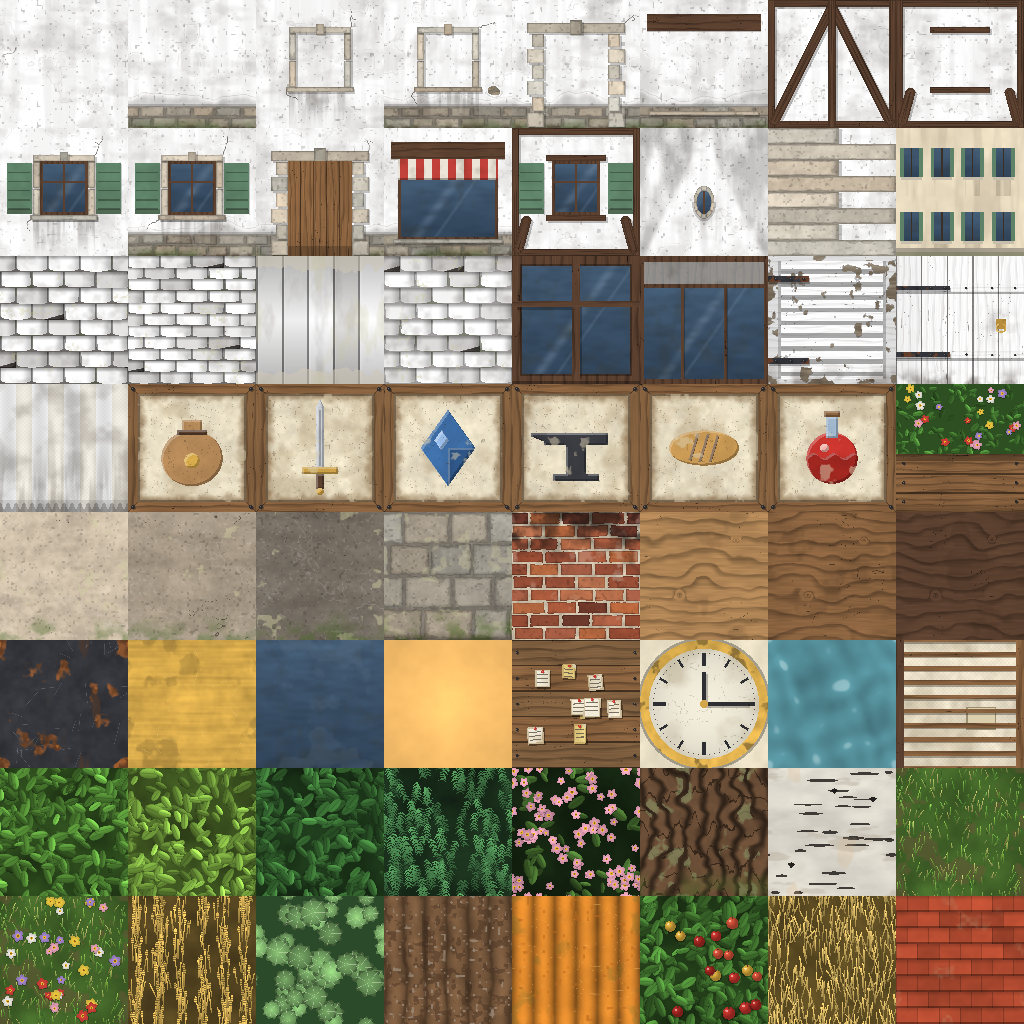
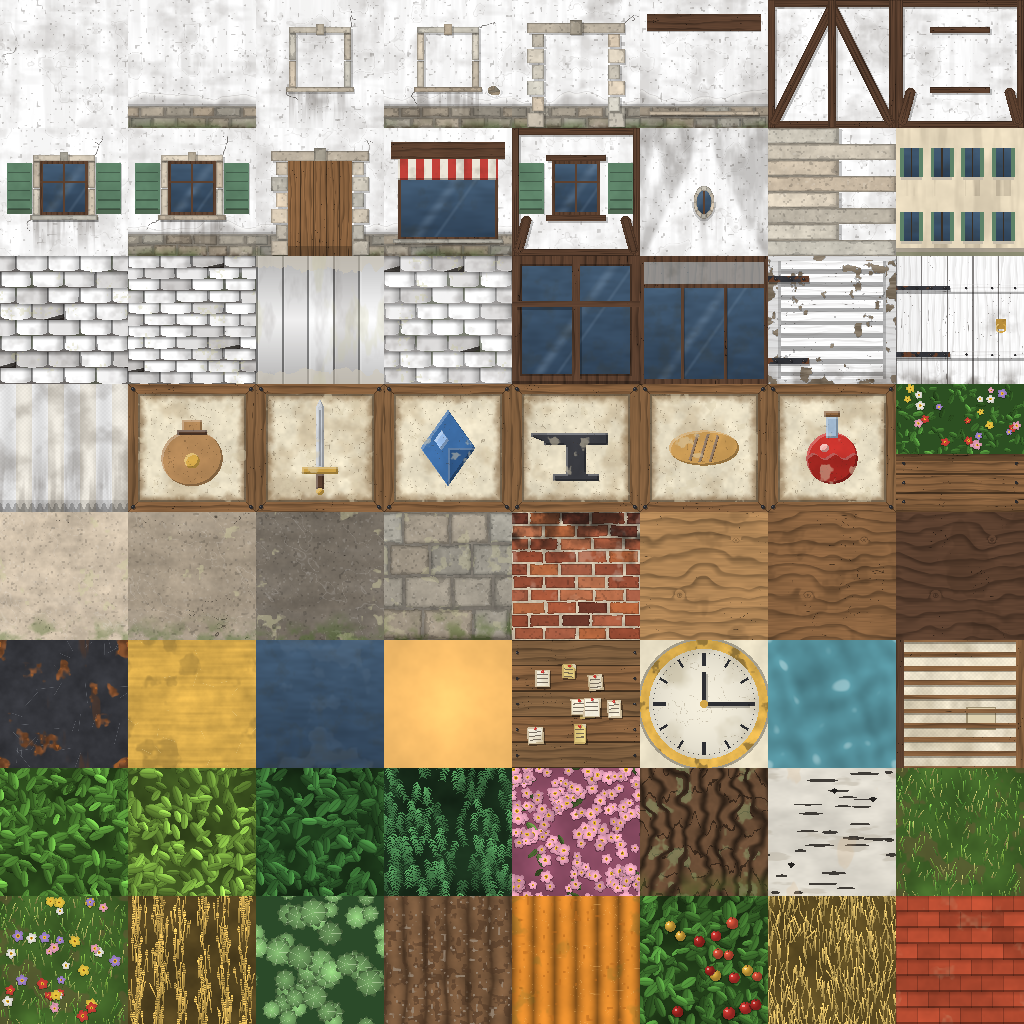
feat(texturas): cerezo más rosado y ids nuevos del atlas

Changed region(s): [[0.5, 0.75, 0.625, 0.875]]

diff --git a/modelos/region1_valle_del_alba/herramientas/atlas.py b/modelos/region1_valle_del_alba/herramientas/atlas.py
@@ -1266,7 +1266,7 @@ def hojas(color, semilla, pino=False, flor=False):
     """Follaje: fondo en sombra y varias capas de hojas (o agujas) periódicas."""
     l = Lienzo(semilla, rug=0.6, fuerza=3.5)
     c = _col(color)
-    fondo = (_hex("#2F5226") if flor else c)[None, None, :] * (0.42 + 0.1 * l.f(4, k=1))[..., None]
+    fondo = (_hex("#B0607E") if flor else c)[None, None, :] * ((0.78 if flor else 0.42) + 0.1 * l.f(4, k=1))[..., None]
     l.pintar(1.0, fondo)
     l.alt[:] = 0.1
     if pino:
@@ -1289,10 +1289,10 @@ def hojas(color, semilla, pino=False, flor=False):
                         l.pintar(ag, c * tono, rug=0.6)
                         l.altura(ag, 0.3 + 0.25 * capa)
     elif flor:
-        _hojas_formas(l, 1.0, "#4E7A34", 40, 0.06, k=2)
-        for j in range(70):
+        _hojas_formas(l, 1.0, "#5F7F3E", 14, 0.05, k=2)
+        for j in range(150):
             cx, cy = l.rng.uniform(0, 1, 2)
-            r, tono, giro = l.rng.uniform(0.03, 0.05), l.rng.uniform(0.85, 1.12), l.rng.uniform(0, 6)
+            r, tono, giro = l.rng.uniform(0.035, 0.058), l.rng.uniform(0.9, 1.15), l.rng.uniform(0, 6)
             # copias desplazadas una casilla para que las flores del borde sigan al otro lado (periódico)
             for ox in (-1, 0, 1):
                 for oy in (-1, 0, 1):
